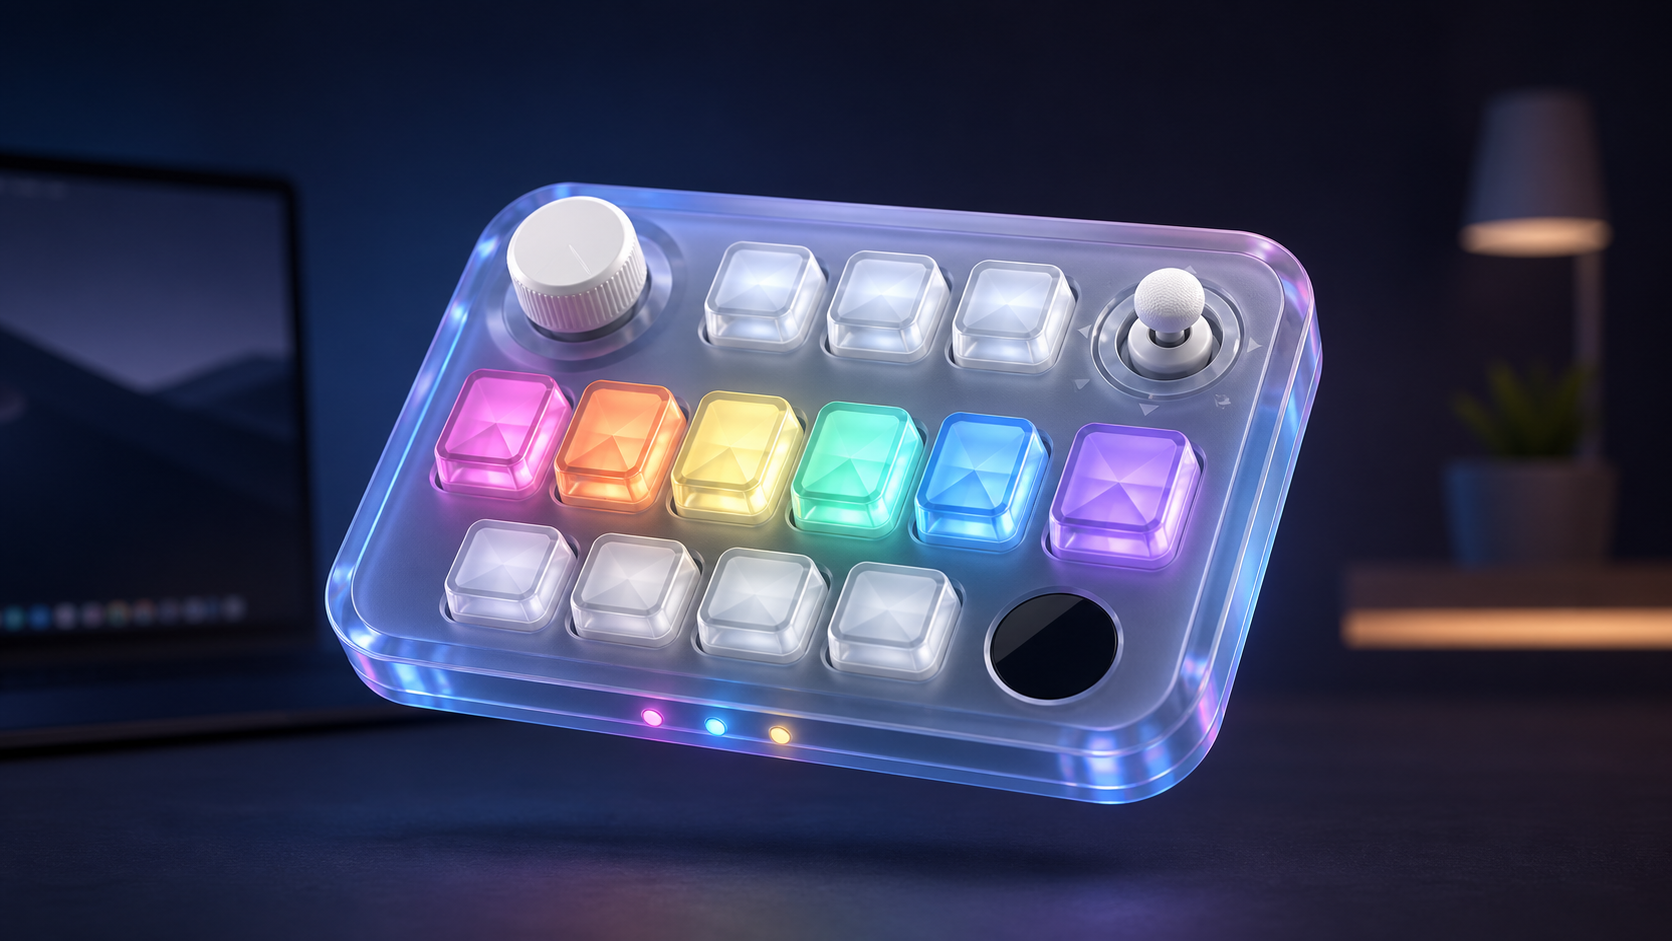
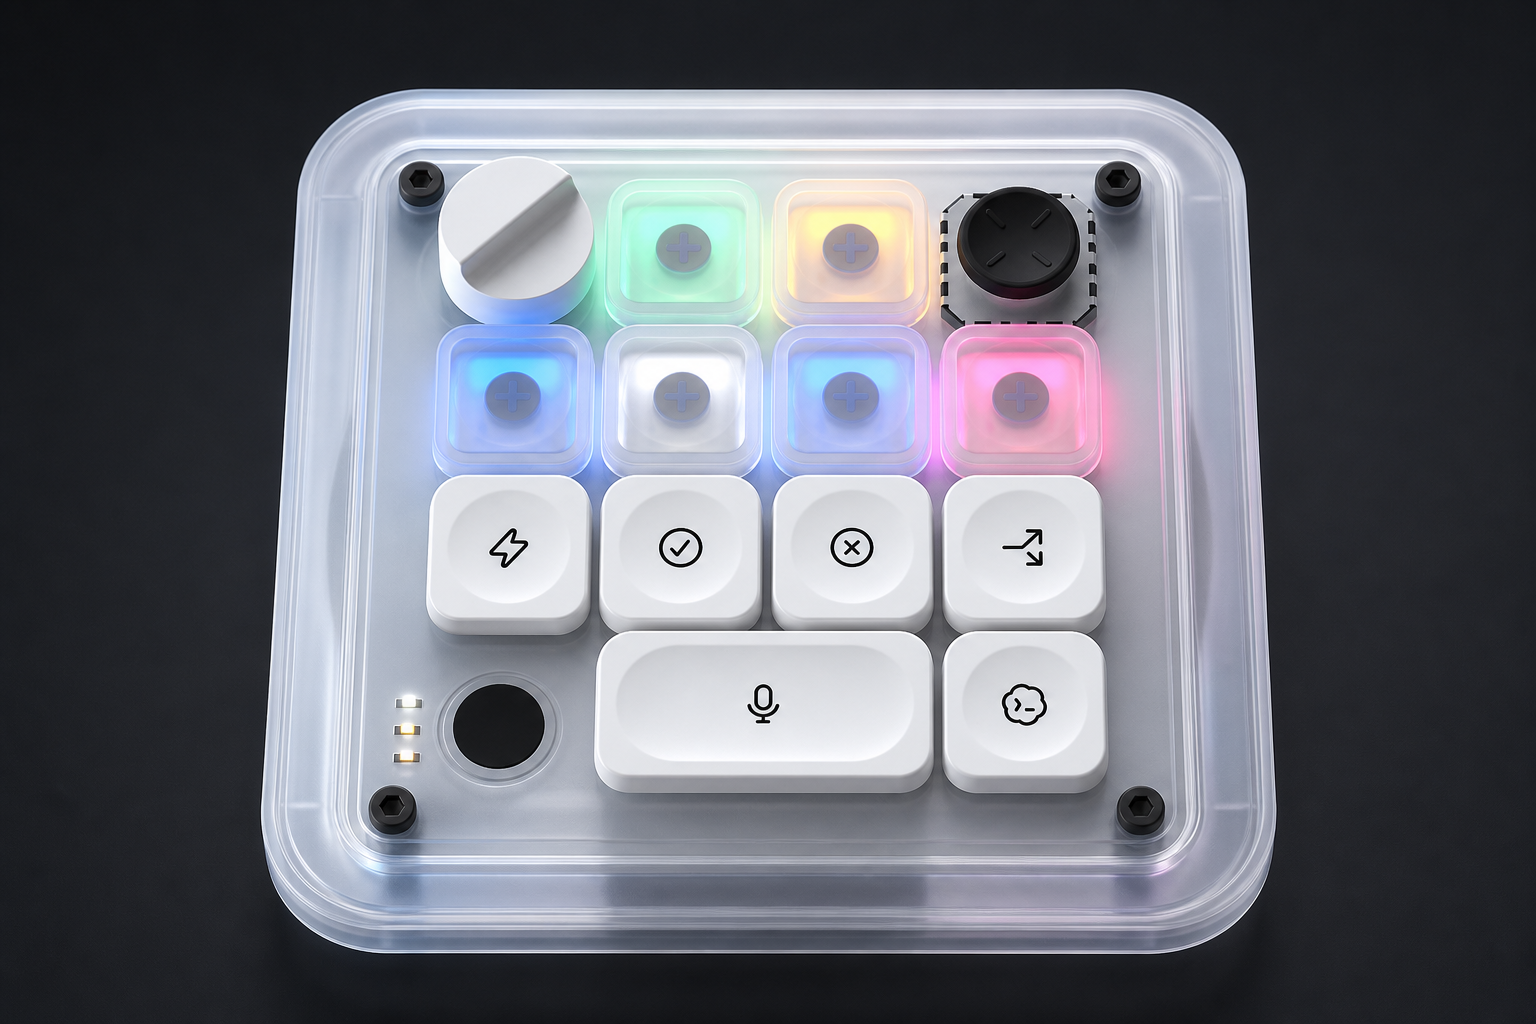
Match README visuals to real guide

diff --git a/README.md b/README.md
@@ -1,6 +1,17 @@
-<p align="center">
-  <img src="assets/codex-micro-glass-hero.png" alt="Original 3D concept illustration of a translucent glass macro keypad with glowing keys" width="100%">
-</p>
+<table>
+  <tr>
+    <td width="58%" align="center">
+      <img src="assets/codex-micro-glass-hero.png" alt="Faithful translucent community rendering of the Codex Micro control layout">
+    </td>
+    <td width="42%" align="center">
+      <img src="assets/codex-micro-glass-app.png" alt="The actual privacy-safe Codex Micro Glass Guide app">
+    </td>
+  </tr>
+  <tr>
+    <td align="center"><strong>The real control layout, rendered in glass</strong></td>
+    <td align="center"><strong>The actual working guide</strong></td>
+  </tr>
+</table>
 
 <h1 align="center">Codex Micro Glass Guide</h1>
 
@@ -12,7 +23,7 @@
 <p align="center"><em>Think of it as training wheels—made of glass, with excellent lighting.</em></p>
 
 > [!NOTE]
-> The hero image is original concept artwork, not an official product rendering.
+> The device image is an original community rendering based on the official control layout, not an official product photograph. The app image is captured from the real working build with privacy-safe sample tasks.
 
 ## What is it?
 
